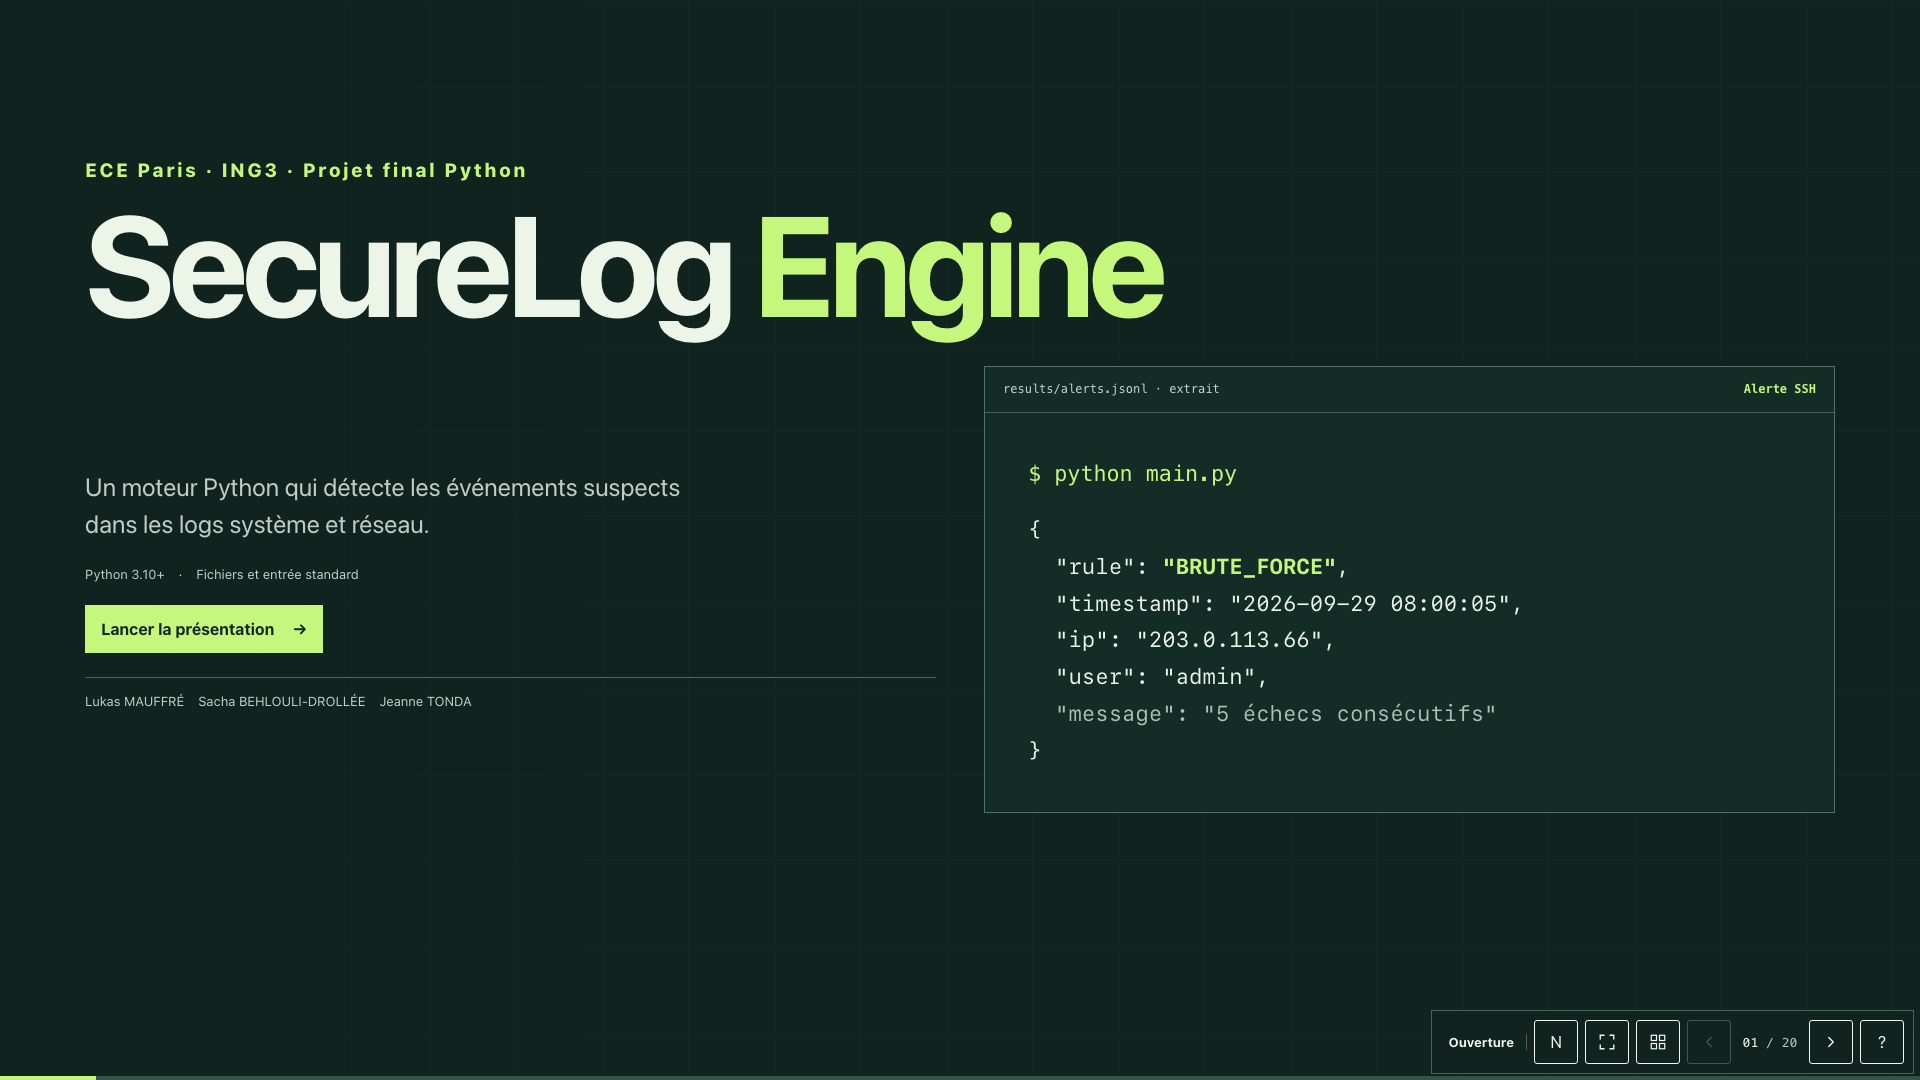
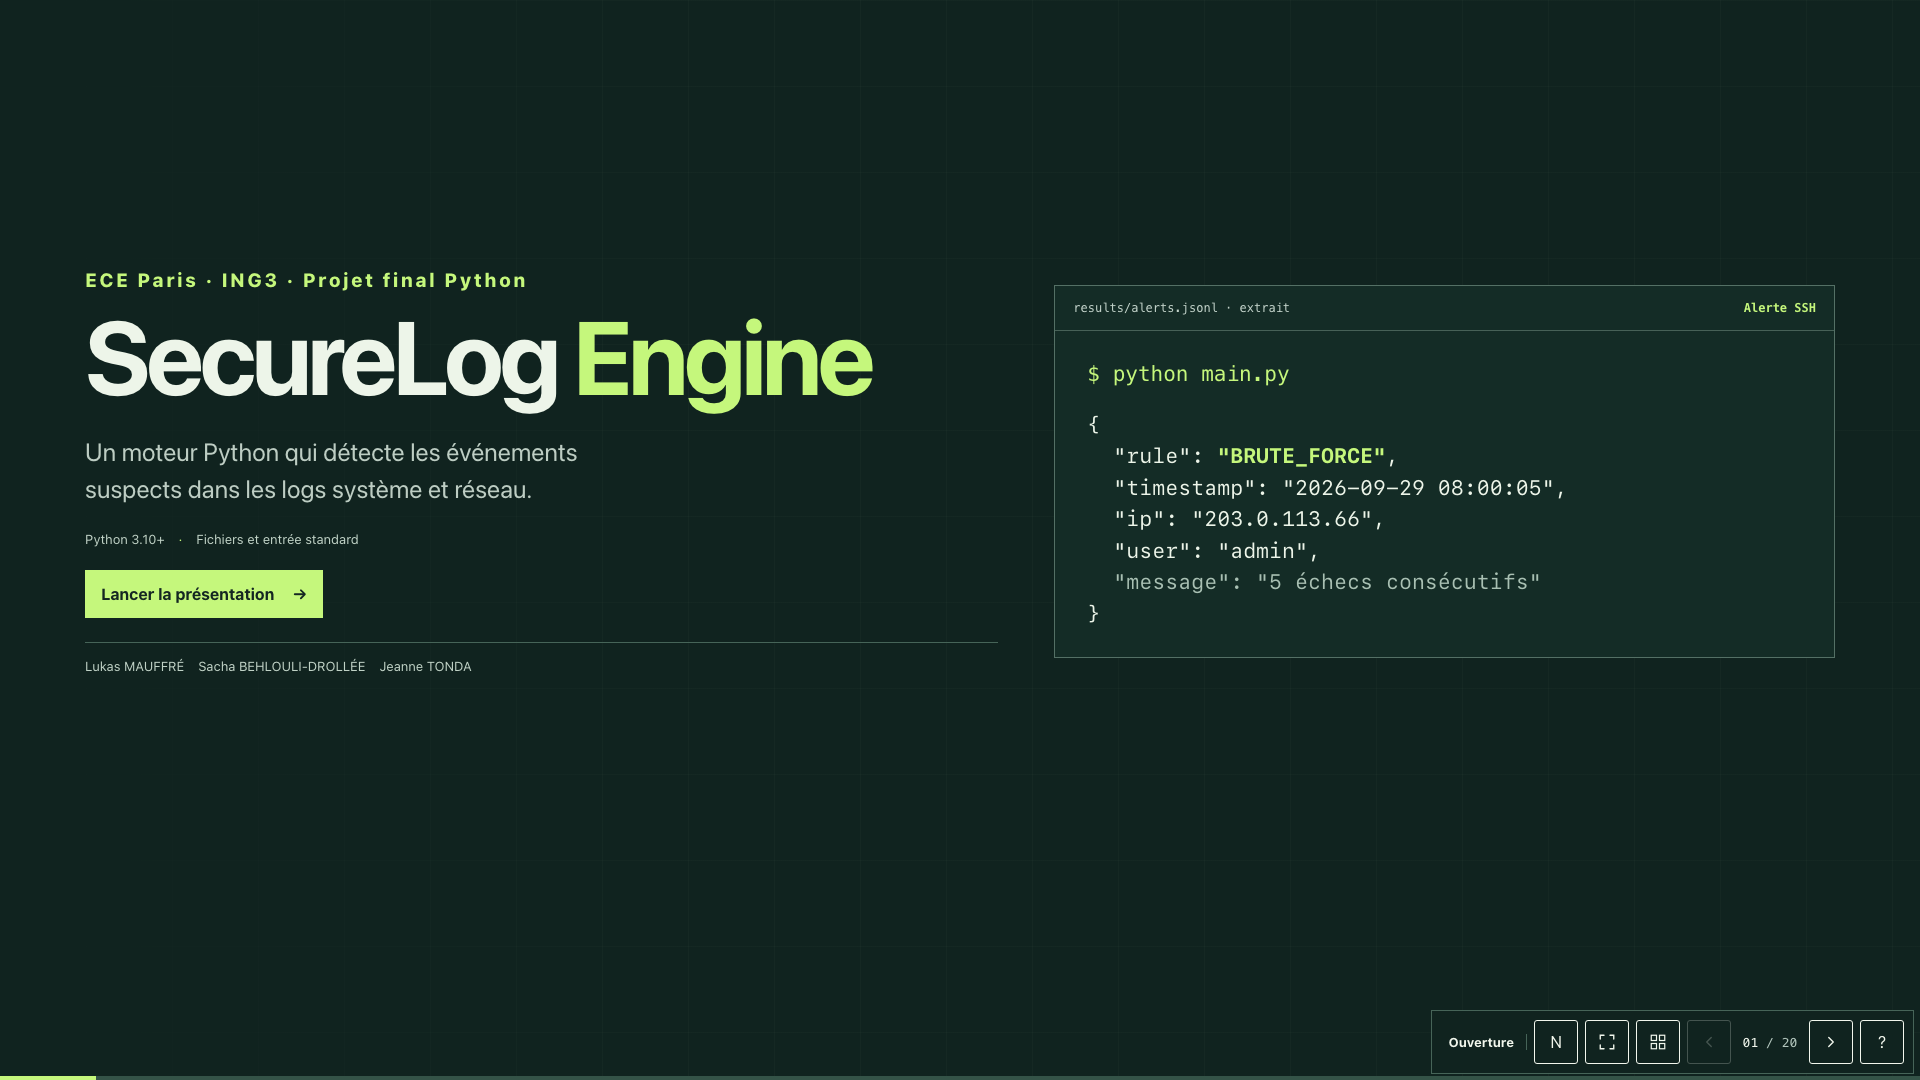
style: rebalance the opening slide

diff --git a/index.html b/index.html
@@ -65,18 +65,18 @@
 .eyebrow{font-size:12px;letter-spacing:.145em;font-weight:800;margin:0 0 16px;color:var(--muted)}.dark .eyebrow{color:var(--lime)}.slide-head{margin-bottom:clamp(22px,3cqh,39px)}.headline{font-size:clamp(48px,5.15cqw,86px);font-weight:650;line-height:1.02;letter-spacing:-.055em;margin:0 0 23px;max-width:1120px}.headline.compact{font-size:clamp(39px,4.15cqw,68px);line-height:1.04}.lead{font-size:clamp(17px,1.46cqw,22px);line-height:1.48;color:#435750;max-width:600px;margin:0}.intro{font-size:18px;line-height:1.48;color:var(--muted);max-width:940px;margin:0}.dark .intro,.dark .lead{color:#bdcdc3}.muted-ink{color:#9aa6a0}.accent,.accent-ink{color:var(--lime)}.accent-ink{color:#55853a}.display{font-weight:700;letter-spacing:-.062em;line-height:.95;margin:0}.label-line{display:flex;align-items:center;gap:12px;font-size:11px;letter-spacing:.14em;font-weight:800;color:#aac0ab}.line-dot,.status-dot{display:inline-block;width:9px;height:9px;border-radius:50%;background:var(--lime)}
 .cover-grid {
   display: grid;
-  grid-template-columns: repeat(12, minmax(0, 1fr));
+  grid-template-columns: minmax(0, 1.17fr) minmax(0, 1fr);
   align-content: center;
   align-items: center;
-  gap: 34px 48px;
+  gap: 56px;
   flex: 1;
 }
-.cover-heading { grid-column: 1 / -1; }
-.cover-copy, .cover-visual { grid-column: span 6; }
-.cover-title { font-size: clamp(64px, 7.4cqw, 142px); margin: 0; }
+.cover-title {
+  font-size: clamp(54px, 5.4cqw, 104px);
+  margin: 0 0 28px;
+}
 .cover-visual { display: flex; flex-direction: column; }
-.cover-visual .term-content { flex: 1; align-content: center; }
-.cover-copy .lead { max-width: 31ch; }
+.cover-copy .lead { max-width: 40ch; }
 .cover-meta, .team-line {
   display: flex;
   flex-wrap: wrap;
@@ -117,7 +117,7 @@
 .term-content mark { background: transparent; color: var(--lime); font-weight: 700; }
 .term-content .term-dim { color: #a9c0b3; }
 .m-enter .hero[data-enter] .cover-heading { animation: cover-enter .55s var(--curve); }
-.m-enter .hero[data-enter] .cover-copy { animation: cover-enter .55s var(--curve) .08s backwards; }
+.m-enter .hero[data-enter] .cover-body { animation: cover-enter .55s var(--curve) .08s backwards; }
 .m-enter .hero[data-enter] .cover-visual { animation: cover-enter .55s var(--curve) .15s backwards; }
 @keyframes cover-enter {
   from { opacity: 0; transform: translateY(16px); }
@@ -291,7 +291,6 @@
   .loop-footer span, .roadmap-layout span {font-size: clamp(15px, 1.18cqw, 20px);}
   .mem-columns {min-height: 245px;}
   .slide .intro, .slide .lead {font-size: clamp(19px, 1.55cqw, 26px);}
-  .slide .cover-copy .lead {max-width: 42ch;}
   .slide .command, .slide .pipe-file {font-size: clamp(15px, 1.15cqw, 19px);}
   .func-code {flex: 1; align-content: center;}
   .identity-row {flex: 1;}
@@ -568,6 +567,11 @@ html[data-motion] :is(.primary-action, button:not(:disabled)):active { transform
     white-space: nowrap;
     overflow-wrap: normal;
   }
+  #deck[data-canvas] .cover-visual .term-content {
+    padding: 28px 32px;
+    font-size: 21px;
+    line-height: 1.5;
+  }
 }
 </style>
 <noscript><style>
@@ -584,15 +588,17 @@ html[data-motion] :is(.primary-action, button:not(:disabled)):active { transform
 <main id="deck" tabindex="-1">
 <section class="slide hero dark is-active" id="slide-1" data-enter data-title="SecureLog Engine" data-chapter="Ouverture" aria-label="Diapositive 1: SecureLog Engine"><div class="slide-inner wrap">
 <div class="cover-grid hero-text grid">
-  <div class="cover-heading">
-    <p class="eyebrow">ECE Paris · ING3 · Projet final Python</p>
-    <h1 class="display cover-title">SecureLog <span class="accent">Engine</span></h1>
-  </div>
   <div class="cover-copy hero__text">
-    <p class="lead hero__lead">Un moteur Python qui détecte les événements suspects dans les logs système et réseau.</p>
-    <div class="cover-meta"><span>Python 3.10+</span><span>Fichiers et entrée standard</span></div>
-    <a class="cover-start primary-action btn btn--primary" href="#slide-2">Lancer la présentation <span aria-hidden="true">→</span></a>
-    <div class="team-line"><span>Lukas MAUFFRÉ</span><span>Sacha BEHLOULI-DROLLÉE</span><span>Jeanne TONDA</span></div>
+    <div class="cover-heading">
+      <p class="eyebrow">ECE Paris · ING3 · Projet final Python</p>
+      <h1 class="display cover-title">SecureLog <span class="accent">Engine</span></h1>
+    </div>
+    <div class="cover-body">
+      <p class="lead hero__lead">Un moteur Python qui détecte les événements suspects dans les logs système et réseau.</p>
+      <div class="cover-meta"><span>Python 3.10+</span><span>Fichiers et entrée standard</span></div>
+      <a class="cover-start primary-action btn btn--primary" href="#slide-2">Lancer la présentation <span aria-hidden="true">→</span></a>
+      <div class="team-line"><span>Lukas MAUFFRÉ</span><span>Sacha BEHLOULI-DROLLÉE</span><span>Jeanne TONDA</span></div>
+    </div>
   </div>
   <div class="cover-visual app-frame hero__window ui ui-terminal">
     <div class="winbar"><span>results/alerts.jsonl · extrait</span><span class="terminal-tag">Alerte SSH</span></div>
